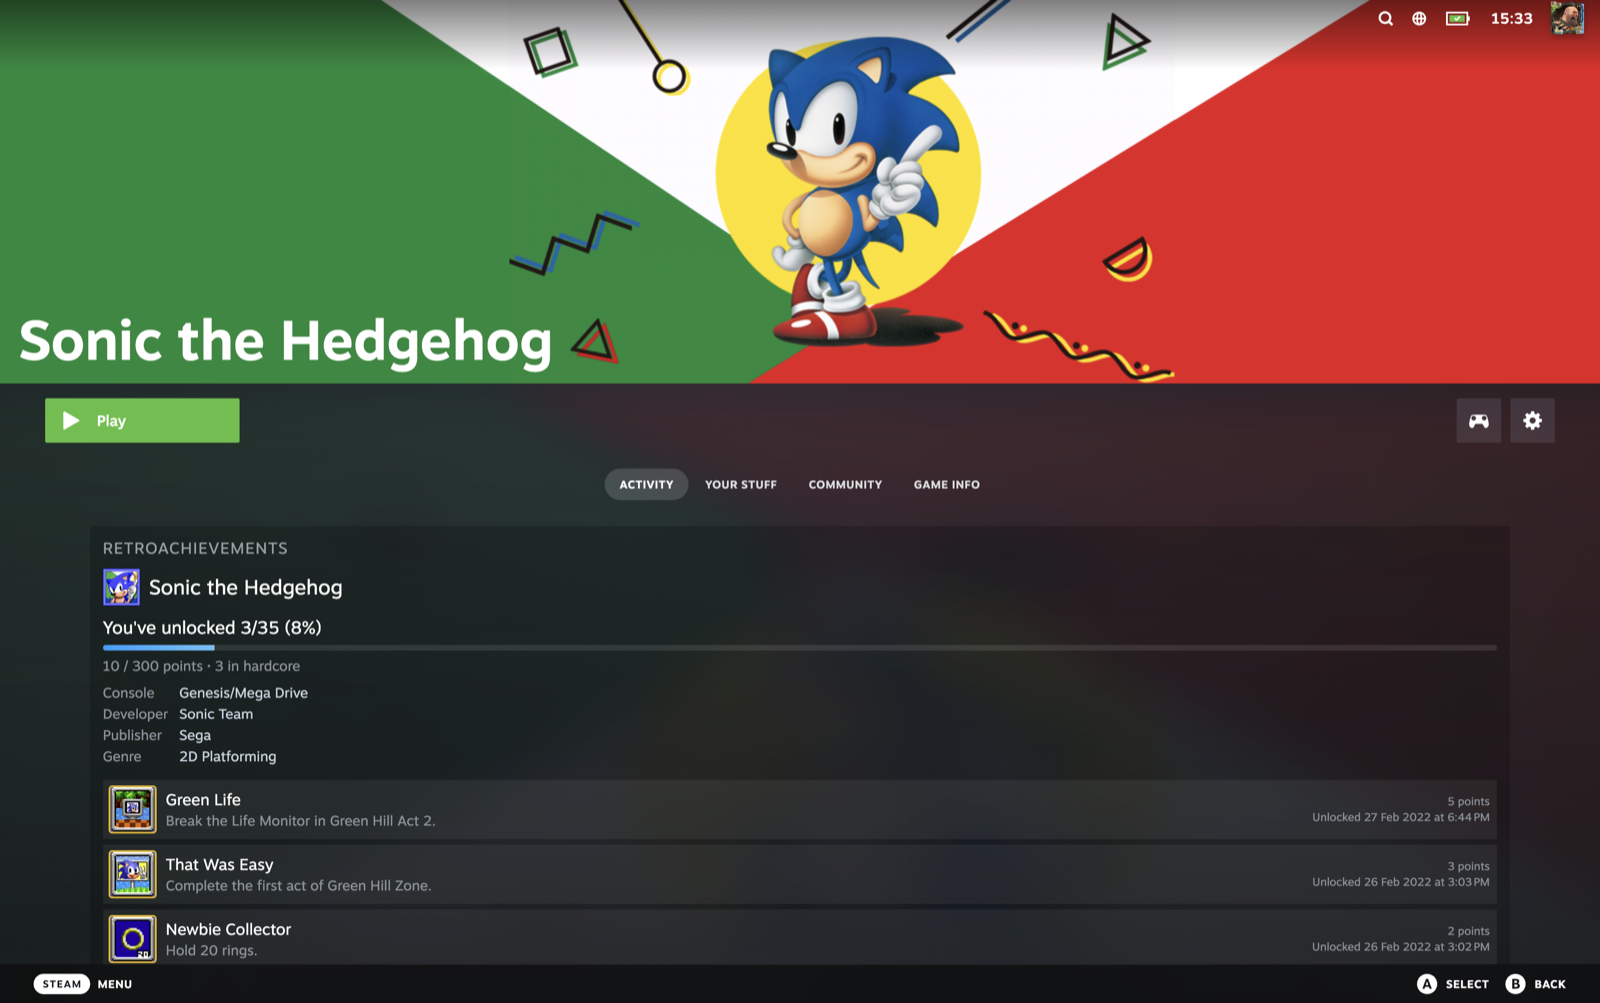
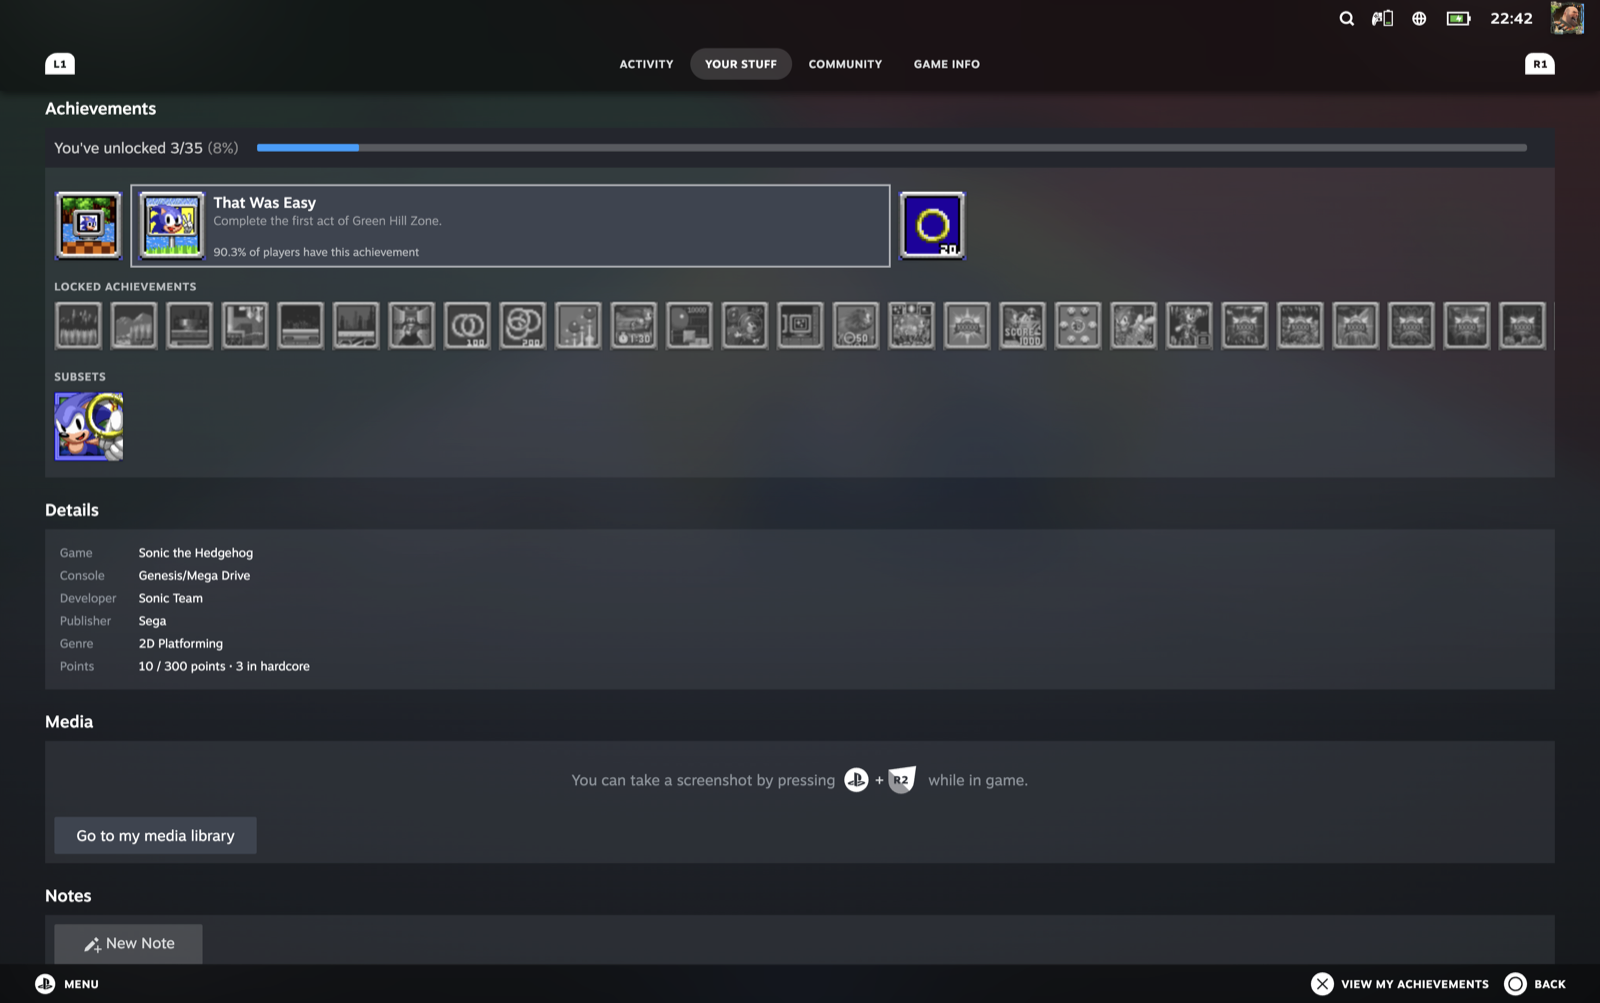
chore: v0.1.5, new screenshots

diff --git a/Sources/RACore/UpdateChecker.swift b/Sources/RACore/UpdateChecker.swift
@@ -3,7 +3,7 @@ import Foundation
 /// Asks GitHub for the latest release. Never throws: no network, rate limits and odd replies all mean "no update".
 public enum UpdateChecker {
     /// Keep in step with CFBundleShortVersionString in Resources/Info.plist (UpdateCheckerTests checks).
-    public static let currentVersion = "0.1.4"
+    public static let currentVersion = "0.1.5"
 
     /// The release page when a newer version than `current` is out, otherwise nil.
     public static func newerRelease(current: String = currentVersion, transport: HTTPTransport = URLSessionTransport()) async -> (version: String, page: URL)? {

diff --git a/README.md b/README.md
@@ -2,15 +2,19 @@
 
 # Steam RetroAchievements
 
-An app for macOS, Linux and Windows that shows your [RetroAchievements](https://retroachievements.org) inside the Steam client. Open a retro game's page in your Steam library and you see its achievements, your progress, and the game's details, styled like Steam's own achievements. It works in the normal desktop library and in Big Picture mode.
+An app for macOS, Linux and Windows that shows your [RetroAchievements](https://retroachievements.org) inside the Steam client. Open a retro game's page in your Steam library and you see its achievements, your progress and your unlocks in the activity feed, styled like a Steam game's. The game's details open from the (i) button, like a Steam game's. It works in the normal desktop library and in Big Picture mode, where the controller moves through it like any Steam game.
 
 It supports RetroArch, DuckStation (PS1), PCSX2 (PS2), PPSSPP (PSP), Dolphin (GameCube/Wii), Flycast (Dreamcast), and SkyEmu (Game Boy family). On macOS it's a menu bar app, on Windows a tray icon, and on Linux a background program with no window. Signing in and adding games happen inside Steam on every platform.
 
-![A ROM's page in Steam's library: the game's details on the left, RetroAchievements progress on the right](docs/screenshots/rom-page.png)
+![A ROM's page in Steam's library: the game's details open under the (i) button, the activity feed on the left, RetroAchievements progress on the right](docs/screenshots/rom-page.png)
 
-| Achievements page | Big Picture mode | Add Games |
-|---|---|---|
-| ![All of the game's achievements, with unlock dates and rarity](docs/screenshots/achievements.png) | ![The same game in Big Picture mode](docs/screenshots/big-picture.png) | ![The Add Games dialog listing ROMs found in ~/ROMs](docs/screenshots/add-games.png) |
+| Big Picture: Your Stuff | Big Picture: Activity |
+|---|---|
+| ![The game's achievements in Big Picture mode, the focused one showing its name, description and rarity](docs/screenshots/big-picture.png) | ![Unlocks in Big Picture mode's activity feed, grouped by day](docs/screenshots/big-picture-activity.png) |
+
+| Achievements page | Add Games |
+|---|---|
+| ![All of the game's achievements, with unlock dates and rarity](docs/screenshots/achievements.png) | ![The Add Games dialog listing ROMs found in ~/ROMs](docs/screenshots/add-games.png) |
 
 ## How it works
 
@@ -64,8 +68,8 @@ A shortcut with no ROM in its launch options just opens the emulator's menu, so 
 
 - **"Couldn't check this ROM version":** the app can't fingerprint `.chd` or `.7z` files yet. It matched the game by name. Your emulator can still unlock achievements.
 - **"RetroAchievements doesn't recognize this ROM version":** this exact ROM isn't one RetroAchievements supports, so the emulator won't unlock achievements for it.
-- **Subsets:** when a game has RetroAchievements subsets (Bonus, Time Attack…), the achievements panel shows an icon for each under "Subsets". Click one to open that subset's achievements page. Subsets are separate from the game's own list and totals.
-- **Wrong game:** click **Wrong game?** on the panel and pick the right one. The app remembers your choice.
+- **Subsets:** when a game has RetroAchievements subsets (Bonus, Time Attack…), the achievements panel shows an icon for each under "Subsets". Click one (in Big Picture, press A on it) to open that subset's achievements page. Subsets are separate from the game's own list and totals.
+- **Wrong game:** in the desktop library, click the (i) button next to the heart, then **Wrong game?**, and pick the right one. The app remembers your choice.
 - **Panel gone after a Steam update:** restart Steam (macOS: **Restart Steam** in the menu bar). If it's still missing, Steam changed something inside and the app needs an update.
 - **Log file:** `~/Library/Logs/steam-retroachievements.log` on macOS, `~/.local/share/steam-retroachievements/steam-retroachievements.log` on Linux, `%LOCALAPPDATA%\steam-retroachievements\steam-retroachievements.log` on Windows.
 
